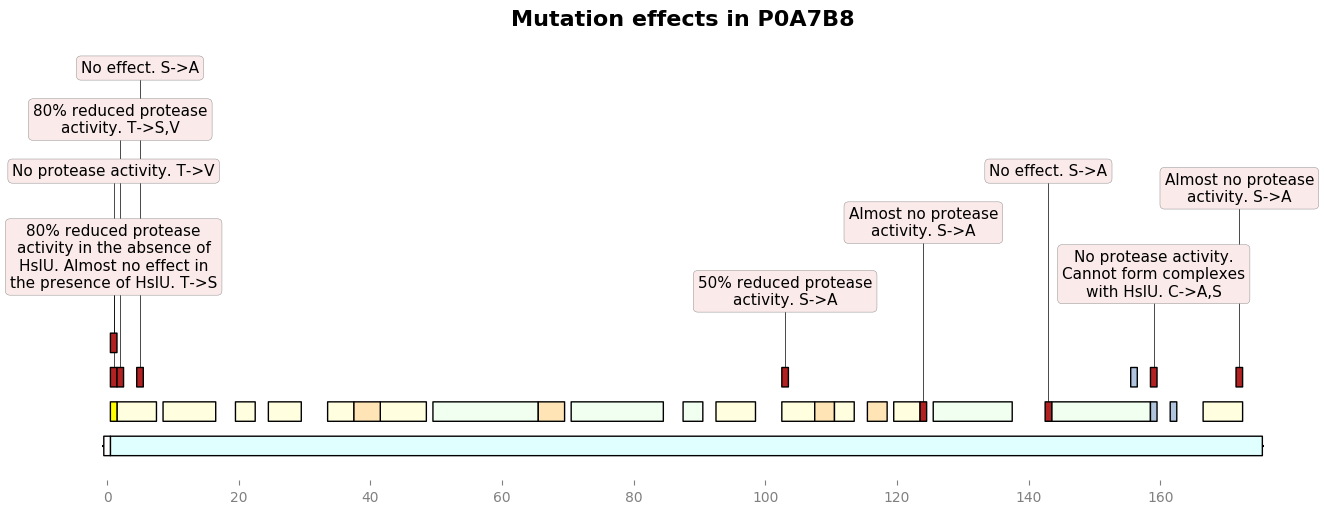
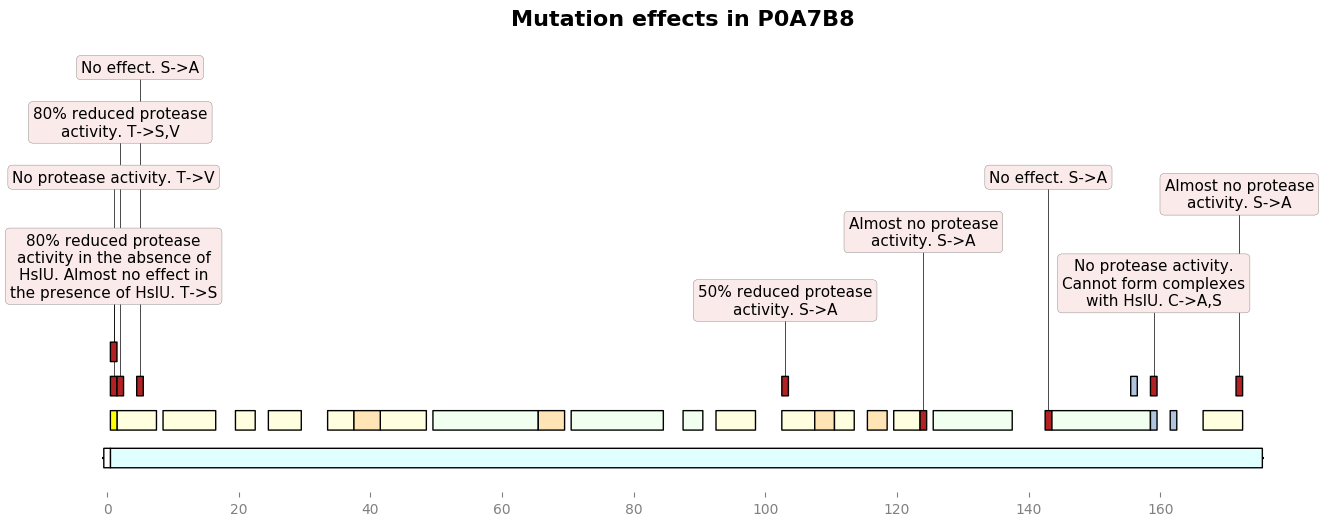
simplified level computation, updated examples

diff --git a/dna_features_viewer/GraphicRecord/MatplotlibPlottableMixin.py b/dna_features_viewer/GraphicRecord/MatplotlibPlottableMixin.py
@@ -6,6 +6,7 @@ import numpy
 import matplotlib.pyplot as plt
 import matplotlib.patches as mpatches
 from matplotlib.ticker import MaxNLocator
+from matplotlib.patches import Patch
 
 from ..biotools import extract_graphical_translation
 from ..compute_features_levels import compute_features_levels
@@ -451,7 +452,9 @@ class MatplotlibPlottableMixin:
                 indicate_strand_in_label=strand_in_label(feature),
             )
             line_height = height / nlines
-            feature_ideal_span = 0.4 * (ax_height / line_height)
+            n_text_lines_in_axis = ax_height / line_height
+            min_y_height = self.min_y_height_of_text_line
+            feature_ideal_span = min_y_height * n_text_lines_in_axis
             ideal_yspan = max(ideal_yspan, feature_ideal_span)
             if overflowing or not annotate_inline:
                 # trick here: we are representing text annotations as
@@ -476,10 +479,10 @@ class MatplotlibPlottableMixin:
         # graphic feature. Or at the same levels as the graphic features (
         # every annotation above its respective feature, but some annotations
         # can be below some features).
-
         if elevate_outline_annotations:
+            
             base_feature = GraphicFeature(
-                start=0,
+                start=-self.sequence_length,
                 end=self.sequence_length,
                 fixed_level=0,
                 nlines=1,
@@ -501,6 +504,7 @@ class MatplotlibPlottableMixin:
 
         max_annotations_level = max([0] + list(annotations_levels.values()))
         annotation_height = self.determine_annotation_height(max_level)
+        annotation_height = max(self.min_y_height_of_text_line, annotation_height)
         labels_data = {}
         for feature, level in annotations_levels.items():
             if "is_base" in feature.data:
@@ -684,6 +688,41 @@ class MatplotlibPlottableMixin:
                     facecolor=background[i % 2],
                 )
 
+    def plot_legend(
+        self, ax, allow_ambiguity=False, include_edge=True, **legend_kwargs
+    ):
+        handles = []
+        features_parameters = {}
+        for feature in self.features:
+            text = feature.legend_text
+            if text is None:
+                continue
+            parameters = dict(
+                label=text, facecolor=feature.color, edgecolor="black",
+            )
+            if include_edge:
+                parameters.update(
+                    dict(
+                        linewidth=feature.linewidth,
+                        edgecolor=feature.linecolor,
+                    )
+                )
+            if text in features_parameters:
+                previous_parameters = features_parameters[text]
+                if (not allow_ambiguity) and any(
+                    [
+                        parameters[k] != previous_parameters[k]
+                        for k in parameters
+                    ]
+                ):
+                    raise ValueError(
+                        "Cannot generate an unambiguous legend as two"
+                    )
+                continue
+            features_parameters[text] = parameters
+            handles.append(Patch(**parameters))
+        ax.legend(handles=handles, **legend_kwargs)
+
 
 def change_luminosity(
     color, luminosity=None, min_luminosity=None, factor=None
@@ -713,7 +752,7 @@ def change_luminosity(
         new_l = l ** (-factor)
     if min_luminosity is not None:
         new_l = max(new_l, min_luminosity)
-    
+
     return colorsys.hls_to_rgb(h, new_l, s)
 
 
@@ -729,5 +768,5 @@ def get_text_box(text, margin=0):
     bbox = text.get_window_extent(renderer)  # bounding box
     __x1, y1, __x2, y2 = bbox.get_points().flatten()
     bbox = bbox.transformed(text.axes.transData.inverted())
-    x1, _, x2, _ = bbox.get_points().flatten()
+    x1, __y1, x2, __y2 = bbox.get_points().flatten()
     return [x1, y1, x2, y2]

diff --git a/dna_features_viewer/compute_features_levels.py b/dna_features_viewer/compute_features_levels.py
@@ -51,31 +51,25 @@ def compute_features_levels(features):
         for n in graph.nodes
     }
 
-    def collision(base_level, node):
+    def collision(node, level):
         """Return whether the node placed at base_level collides with its
         neighbors in the graph."""
         line_factor = 0.5
         nlines = node.data.get("nlines", 1) 
-        node_top = base_level + line_factor * nlines
-        node_bottom = base_level - line_factor * nlines
         for neighbor in graph.neighbors[node]:
-            level = levels[neighbor]
-            if level is None:
+            neighbor_level = levels[neighbor]
+            if neighbor_level is None:
                 continue
-            nlines = neighbor.data.get("nlines", 1) 
-            neighbor_top = level + line_factor * nlines
-            neighbor_bottom = level - line_factor * nlines
-            up_collision = node_bottom <= neighbor_bottom < node_top
-            down_collision = neighbor_bottom <= node_bottom < neighbor_top
-            if up_collision or down_collision:
+            neighbor_lines = neighbor.data.get("nlines", 1)
+            min_distance = line_factor * (nlines + neighbor_lines)
+            if abs(level - neighbor_level) < min_distance:
                 return True
         return False
 
     for node in sorted(graph.nodes, key=lambda f: -f.length):
-        if levels[node] is not None:
-            continue
-        base_level = 0
-        while collision(base_level, node):
-            base_level += 0.5
-        levels[node] = base_level
+        if levels[node] is None:
+            level = 0
+            while collision(node, level):
+                level += 0.5
+            levels[node] = level
     return levels

diff --git a/dna_features_viewer/GraphicRecord/BokehPlottableMixin.py b/dna_features_viewer/GraphicRecord/BokehPlottableMixin.py
@@ -51,7 +51,7 @@ class BokehPlottableMixin:
         result.update(kwargs)
         return result
 
-    def plot_with_bokeh(self, figure_width=5):
+    def plot_with_bokeh(self, figure_width=5, figure_height="auto"):
         """Plot the graphic record using Bokeh.
 
         Examples
@@ -70,7 +70,10 @@ class BokehPlottableMixin:
         ax, (features_levels, plot_data) = self.plot(figure_width=figure_width)
         width, height = [int(100 * e) for e in ax.figure.get_size_inches()]
         plt.close(ax.figure)
-        height = int(0.5 * height)
+        if figure_height == "auto":
+            height = int(0.5 * height)
+        else:
+            height = 100 * figure_height
         max_y = max(
             [data["annotation_y"] for f, data in plot_data.items()]
             + list(features_levels.values())

diff --git a/dna_features_viewer/BiopythonTranslator/BiopythonTranslatorBase.py b/dna_features_viewer/BiopythonTranslator/BiopythonTranslatorBase.py
@@ -39,7 +39,8 @@ class BiopythonTranslatorBase:
             box_linewidth=self.compute_feature_box_linewidth(feature),
             box_color=self.compute_feature_box_color(feature),
             linewidth=self.compute_feature_linewidth(feature),
-            label_link_color=self.compute_feature_label_link_color(feature)
+            label_link_color=self.compute_feature_label_link_color(feature),
+            legend_text=self.compute_feature_legend_text(feature)
         )
         if self.features_properties is not None:
             other_properties = self.features_properties

diff --git a/examples/with_gc_plot.py b/examples/with_gc_plot.py
@@ -26,8 +26,9 @@ record = SeqIO.read("example_sequence.gb", "genbank")
 translator = BiopythonTranslator()
 graphic_record = translator.translate_record(record)
 
-fig, (ax1, ax2) = plt.subplots(2, 1, figsize=(12, 5), sharex=True)
-ax, levels = graphic_record.plot()
+fig, (ax1, ax2) = plt.subplots(
+    2, 1, figsize=(10, 3), sharex=True, gridspec_kw={"height_ratios": [4, 1]}
+)
 graphic_record.plot(ax=ax1, with_ruler=False, strand_in_label_threshold=4)
 plot_local_gc_content(record, window_size=50, ax=ax2)
 

diff --git a/dna_features_viewer/GraphicFeature.py b/dna_features_viewer/GraphicFeature.py
@@ -78,6 +78,7 @@ class GraphicFeature:
         open_right=False,
         box_linewidth=1,
         box_color="auto",
+        legend_text=None,
         label_link_color="black",
         **data
     ):
@@ -99,6 +100,7 @@ class GraphicFeature:
         self.html = html
         self.open_left = open_left
         self.open_right = open_right
+        self.legend_text = legend_text
 
     def split_in_two(self, x_coord=0):
         """Return two features by cutting this feature at x_coord."""

diff --git a/dna_features_viewer/BiopythonTranslator/BiopythonTranslator.py b/dna_features_viewer/BiopythonTranslator/BiopythonTranslator.py
@@ -113,6 +113,9 @@ class BiopythonTranslator(BiopythonTranslatorBase):
     def compute_feature_linewidth(self, feature):
         """Compute the edge width of the feature's arrow/rectangle."""
         return 1.0
+    
+    def compute_feature_legend_text(self, feature):
+        return None
 
     def compute_feature_html(self, feature):
         """Gets the 'label' of the feature."""

diff --git a/dna_features_viewer/GraphicRecord/GraphicRecord.py b/dna_features_viewer/GraphicRecord/GraphicRecord.py
@@ -66,6 +66,7 @@ class GraphicRecord(MatplotlibPlottableMixin, BokehPlottableMixin):
     default_font_family = None
     default_ruler_color = 'grey'
     default_box_color = 'auto'
+    min_y_height_of_text_line = 0.5
 
     
     def __init__(

diff --git a/dna_features_viewer/CircularGraphicRecord/CircularGraphicRecord.py b/dna_features_viewer/CircularGraphicRecord/CircularGraphicRecord.py
@@ -40,6 +40,7 @@ class CircularGraphicRecord(GraphicRecord):
     """
 
     default_elevate_outline_annotations = True
+    min_y_height_of_text_line = 0.1
 
     def __init__(
         self,

diff --git a/dna_features_viewer/version.py b/dna_features_viewer/version.py
@@ -1,1 +1,1 @@
-__version__ = "2.3.0"
+__version__ = "2.3.1"

diff --git a/README.rst b/README.rst
@@ -184,28 +184,22 @@ other sequences statistics, such as the local GC content:
     from Bio import SeqIO
     import numpy as np
 
-    fig, (ax1, ax2) = plt.subplots(2, 1, figsize=(8, 4), sharex=True)
+    fig, (ax1, ax2) = plt.subplots(
+        2, 1, figsize=(12, 3), sharex=True, gridspec_kw={"height_ratios": [4, 1]}
+    )
 
-    # Parse the genbank file, plot annotations
+    # PLOT THE RECORD MAP
     record = SeqIO.read("example_sequence.gb", "genbank")
     graphic_record = BiopythonTranslator().translate_record(record)
-    ax, levels = graphic_record.plot(strand_in_label_threshold=5)
-    graphic_record.plot(ax=ax1, with_ruler=False)
+    graphic_record.plot(ax=ax1, with_ruler=False, strand_in_label_threshold=4)
 
-    # Plot the local GC content
-    def plot_local_gc_content(record, window_size, ax):
-        gc_content = lambda s: 100.0*len([c for c in s if c in "GC"]) / len(s)
-        yy = [gc_content(record.seq[i:i+window_size])
-              for i in range(len(record.seq)-window_size)]
-        xx = np.arange(len(record.seq)-window_size)+25
-        ax.fill_between(xx, yy, alpha=0.3)
-        ax.set_ylabel("GC(%)")
-
-    plot_local_gc_content(record, window_size=50, ax=ax2)
-
-    # Resize the figure
-    fig.savefig("with_plot.png")
-
+    # PLOT THE LOCAL GC CONTENT (we use 50bp windows)
+    gc = lambda s: 100.0 * len([c for c in s if c in "GC"]) / 50
+    xx = np.arange(len(record.seq) - 50)
+    yy = [gc(record.seq[x : x + 50]) for x in xx]
+    ax2.fill_between(xx + 25, yy, alpha=0.3)
+    ax2.set_ylim(bottom=0)
+    ax2.set_ylabel("GC(%)")
 
 .. raw:: html
 
